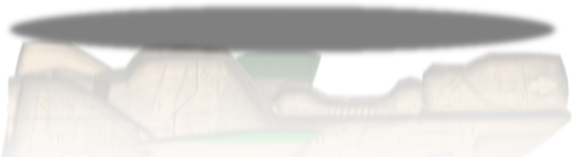
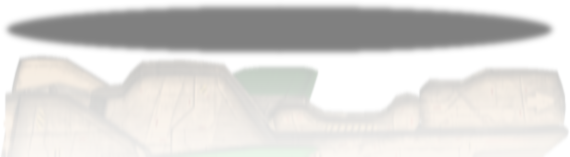
retrovega: the deck's landing sleds are the painted sled, hulls seated in its cradle
Claude-Session: https://claude.ai/code/session_019Nres1uExFzYT7oEr38LtM

diff --git a/retrovega/tools/places.py b/retrovega/tools/places.py
@@ -58,10 +58,11 @@ sys.path.insert(0, HERE)
 SCREEN = (640, 400)
 TICK = 50          # ms per frame of the launch
 LAUNCH = {'spool_ms': 600, 'lift_ms': 400, 'lift_px': 4, 'run_ms': 900}
-# the landing sleds, in screen pixels: how high they hold a ship's lowest
-# point, their parts' sizes, where they stand along the hull that shows (front
-# always, rear too past two_from pixels)
-SLED = {'clearance': 12, 'foot': (56, 14), 'strut': 14, 'saddle': 44,
+# the landing sleds, in screen pixels: the least strut showing under a ship's
+# lowest point, their parts' sizes (a painted sled is scaled to the foot's
+# width), where they stand along the hull that shows (front always, rear too
+# past two_from pixels)
+SLED = {'strut_min': 4, 'foot': (84, 16), 'strut': 14, 'saddle': 66,
         'front': [0.72], 'rear': [0.2], 'two_from': 300}
 RENDER = 1280      # the size the fighters are rendered at before scaling down
 
@@ -198,7 +199,7 @@ def lit(img, light):
     return Image.fromarray(np.clip(a, 0, 255).astype(np.uint8), 'RGBA')
 
 
-def fighter(ship, cfg, frame, cache, cover, rerender=False):
+def fighter(ship, cfg, frame, cache, cover, parts, rerender=False):
     """A fighter on the pad: sprite, position, under layer, engine points, and
     the sleds it stands on."""
     above, below, info = render_views(ship, cfg, cache, rerender)
@@ -208,8 +209,9 @@ def fighter(ship, cfg, frame, cache, cover, rerender=False):
     sprite = hard(lit(premul_resize(above.crop(bb), size), cfg['light']))
     nose, deck = frame.xy(cfg['nose_x'], cfg['bottom'])
     deck = round(deck)
-    # every ship rides on sleds, its lowest point a little above the deck
-    x, y = round(nose - size[0]), round(deck - SLED['clearance'] - size[1])
+    # every ship rides on sleds: its lowest point clears the shortest sled
+    clearance = parts[0].size[1] + parts[2].size[1] - seat(parts) + SLED['strut_min']
+    x, y = round(nose - size[0]), round(deck - clearance - size[1])
     # the ship's centre on the screen: the renders are centred on it
     cx, cy = x + (RENDER / 2 - bb[0]) * s, y + (RENDER / 2 - bb[1]) * s
     engines = nozzles(sprite, [(ey - bb[1]) * s for _ex, ey, _r in info['engines']])
@@ -352,8 +354,17 @@ def lit_arr(a, light):
     return a
 
 
+def seat(parts):
+    """How far down the saddle the hull rests: the top of its middle.  A
+    cradle's raised ends then hug the hull (or hide behind it)."""
+    a = np.asarray(parts[2])[..., 3] > 0
+    mid = a.shape[1] // 2
+    tops = [np.argmax(a[:, c]) for c in range(mid - 3, mid + 4) if a[:, c].any()]
+    return int(np.median(tops)) if tops else 0
+
+
 def sled(parts, height):
-    """A sled height pixels tall, foot to saddle, as one picture."""
+    """A sled height pixels tall, foot to the saddle's top, as one picture."""
     foot, strut, saddle = parts
     w = max(p.size[0] for p in parts)
     img = Image.new('RGBA', (w, max(height, foot.size[1] + saddle.size[1])), (0, 0, 0, 0))
@@ -452,7 +463,7 @@ def compose(back, front, rect, patch, ship=None, dx=0.0, dy=0.0, burn=0.0):
         ua = u[..., 3:4] * max(0.0, 1 - lift / 12)
         paste_blend(img, u[..., :3], ua, ship['ux'] + dx, ship['uy'] + lift)
         for sx, top in ship['sleds']:
-            sl = np.asarray(sled(ship['parts'], ship['deck'] - top)).astype(np.float32) / 255
+            sl = np.asarray(sled(ship['parts'], ship['deck'] - top + seat(ship['parts']))).astype(np.float32) / 255
             paste_blend(img, sl[..., :3], sl[..., 3:4], sx - sl.shape[1] // 2, ship['deck'] - sl.shape[0])
         if burn > 0:
             h = ship['sprite'].size[1]
@@ -522,7 +533,7 @@ def build(key, cfg, out, cache, rerender=False, log=print):
             part.save(os.path.join(od, 'sled-%s.png' % name))
         place['fighter'] = {'deck': round(frame.xy(0, fc['bottom'])[1]), 'ships': {},
                             'sled': {'foot': 'sled-foot.png', 'strut': 'sled-strut.png',
-                                     'saddle': 'sled-saddle.png'}}
+                                     'saddle': 'sled-saddle.png', 'seat': seat(parts)}}
         place['launch'] = dict(LAUNCH)
         # where the front layer hides what is behind it, in every frame
         cover = np.asarray(front)[..., 3] > 0
@@ -530,7 +541,7 @@ def build(key, cfg, out, cache, rerender=False, log=print):
             for pic in pics:
                 cover[rect[1]:rect[3], rect[0]:rect[2]] &= np.asarray(pic)[..., 3] > 0
         for ship in deck_ships(fc['ships']):
-            sh = fighter(ship, fc, frame, cache, cover, rerender)
+            sh = fighter(ship, fc, frame, cache, cover, parts, rerender)
             sh['parts'], sh['deck'] = parts, place['fighter']['deck']
             ships[ship] = sh
             sh['sprite'].save(os.path.join(od, 'ship-%s.png' % ship))

diff --git a/retrovega/docs/places.md b/retrovega/docs/places.md
@@ -64,8 +64,8 @@ front outside the patch.
 **Placement:** the nose is at `nose_x`. The rest runs behind Kit and off
 the left. A heavy fighter shows only its front and goes off the top.
 
-**The landing sleds:** every ship's lowest point rides 12 px above the
-deck, on standard landing sleds.
+**The landing sleds:** every ship rides above the deck on standard
+landing sleds.
 
 - **Shape:** a sled is a foot on the deck, a strut repeated up to the
   height it needs, and a saddle under the hull (`sled-foot.png`,
@@ -74,10 +74,14 @@ deck, on standard landing sleds.
   belly that can be seen, and one under its rear when that stretch is over
   300 px. Each reaches from the deck to the lowest point of the hull above
   its saddle.
-- **Placeholder:** the parts are drawn shapes until a painted sled exists.
-  Put one at `art/places/src/deck/sled.png` (prompt below) and re-run; the
-  tool slices it itself. The strut is the longest run of rows at its
-  narrowest width.
+- **The art:** a painted sled, `art/places/src/deck/sled.png` (the prompt
+  below), sliced by the tool: the strut is the longest run of rows at its
+  narrowest width, the foot is below it and the saddle above. The saddle
+  is a padded cradle, as the prompt asked. The hull rests in the middle of
+  its dip (`seat` in place.json), so the raised ends hug the hull or hide
+  behind it. Without the file, the tool draws placeholder parts.
+- **Height:** every ship's lowest point clears the shortest sled: the foot,
+  the saddle and 4 rows of strut.
 
 **The launch:** after the ready nod, the fighter launches and the sleds
 stay on the deck.
